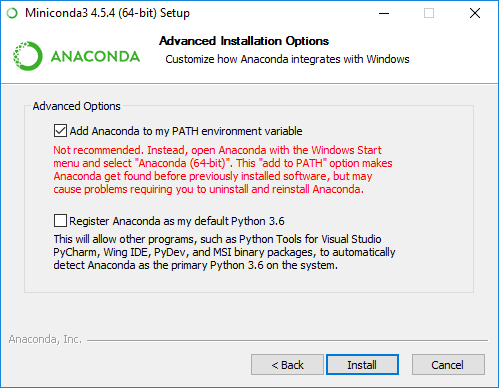
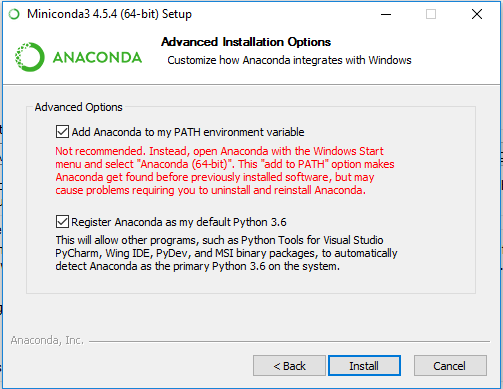
Update installation page. Fix warning on TEM1D

diff --git a/content/installation.rst b/content/installation.rst
@@ -176,43 +176,42 @@ Browser
 Python Installation (Optional)
 ------------------------------
 
-Starting from version 2.25, GIFtools has the option to run some functionalities from the open-source community.
-In order to get access to these codes, users must install Python and few additional packages. This is done through the Anaconda
-project. Please follow these steps to get setup:
+Starting from version 2.25, GIFtools has the option to run some
+functionalities from the open-source community. In order to get access to
+these codes, users must install Python and few additional packages. This is
+done through the Anaconda project. Please follow these steps to get setup:
 
-- (Windows Users) Update/install  `Microsoft Visual Studio 2017 <https://support.microsoft.com/en-ca/help/2977003/the-latest-supported-visual-c-downloads>`_
-    - Some Python packages use C++ to speed up core functions (i.e. `SimPEG <simpeg.xyz>`_)
-
-- Download the `installation package <https://www.eoas.ubc.ca/~dfournie/simpeg_install.zip>`_
-- Launch the Miniconda installation
-    .. figure:: ../images/MinicondaInstaller.png
-        :align: center
-        :width: 400
-
-    - For new users, recommended to let Anaconda set the Environment Path
-        .. figure:: ../images/AnacondaPath.png
+- (Windows Users) Update/install  `Microsoft Visual Studio Community 2017 <https://visualstudio.microsoft.com/vs/community/>`_
+    - Make sure you install both ``Python development`` and ``Desktop develpmoent with C++`` packages
+        .. figure:: ../images/VC_Community.png
             :align: center
             :width: 400
 
-- Open a Command Terminal in the current directory (Shift+rightClick) and enter:
 
-    .. figure:: ../images/OpenCommand.png
-        :align: center
-        :width: 400
+- Download the `installation package <https://www.eoas.ubc.ca/~dfournie/simpegEM1D_install.zip>`_
+- ``Double-click`` on ``Setup.bat``. This will run 3 seperate installations
+    - ``Miniconda`` installation (press cancel IF already installed)
+        .. figure:: ../images/MinicondaInstaller.png
+            :align: center
+            :width: 400
 
+        - Let Anaconda set the Environment Path (check both boxes!!)
+            .. figure:: ../images/AnacondaPath.png
+                :align: center
+                :width: 400
+    - ``MinGW`` installation
+        - Install to ``C:\MinGW``
+            .. figure:: ../images/Install_MinGW.png
+                :align: center
+                :width: 400
+    - ``simpegEM1D`` environment
 
-
-Enter>    `conda env create -f environment.yml`
-
-    .. figure:: ../images/InstallEnvironment.png
-        :align: center
-        :width: 600
 
 Full installation time :math:`\approx 15` min
 
 Congratulation, you should now have access to the `Python ecosystem <http://www.developintelligence.com/blog/python-ecosystem-2017/>`_!
 More packages can be installed through command lines:
 
-Either with anaconda (recommanded)>  `conda install anotherPackage`
+Either with anaconda (recommanded)>  ``conda install PackageName``
 
-or alternatively through pip>   `pip install somePackageName`
+or alternatively through pip>   ``pip install PackageName``

diff --git a/content/AtoZ/em1dtm/lateralInversion.rst b/content/AtoZ/em1dtm/lateralInversion.rst
@@ -124,11 +124,11 @@ Discussion
 **NEW DISCUSSION SECTION NEEDED**
 
 
-.. figure:: ./../../../images/AtoZ_TEM1d/Inv_LC_model.png
-    :align: right
-    :figwidth: 45%
+.. .. figure:: ./../../../images/AtoZ_TEM1d/Inv_LC_model.png
+..     :align: right
+..     :figwidth: 45%
 
-    Recovered 1D models with topography and lateral constraints
+..     Recovered 1D models with topography and lateral constraints
 
 The lateral constraints strategy comes with many advantages:
 
@@ -142,11 +142,11 @@ the algorithm through the usual :ref:`convergence curve<convergence_curve>` wind
 Ideally we would like to test the hypothesis of a conductive overburden in 3D, as well as to impose bounds on the conductivity values.
 which we covered in the :ref:`next section<AtoZem1dtm_lateral>`.
 
-.. figure:: ./../../../images/AtoZ_TEM1d/Inv_LC_convergence.png
-    :align: center
-    :figwidth: 55%
+.. .. figure:: ./../../../images/AtoZ_TEM1d/Inv_LC_convergence.png
+..     :align: center
+..     :figwidth: 55%
 
-    Convergence curves
+..     Convergence curves
 
 .. note:: After the fifth iteration, the global misfit begins to increase due
           to the 3D smoothing of the recovered conductivity model. The user should consider re-running the inversion with
@@ -241,17 +241,17 @@ conductivity structures.
 
 **GENERATE TEM EQUIVALENT**
 
-.. figure:: ./../../../images/AtoZ_TEM1d/Inv_LC_constrained.png
-    :align: left
-    :figwidth: 45%
+.. .. figure:: ./../../../images/AtoZ_TEM1d/Inv_LC_constrained.png
+..     :align: left
+..     :figwidth: 45%
 
-    Recovered 1D models with geological constraints
+..     Recovered 1D models with geological constraints
 
-.. figure:: ./../../../images/AtoZ_TEM1d/True_model.png
-    :align: right
-    :figwidth: 45%
+.. .. figure:: ./../../../images/AtoZ_TEM1d/True_model.png
+..     :align: right
+..     :figwidth: 45%
 
-    Sections through the true 3D conductivity model
+..     Sections through the true 3D conductivity model
 
 
 
